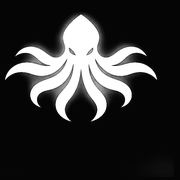
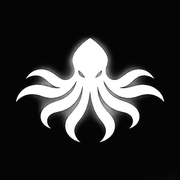
Centra el ícono de la app por centro de masa (v7)
El v6 quedaba pegado arriba en el launcher: el centroide real del mark
(patas del kraken casi transparentes) está al 34% de la altura, así que
centrar por bounding box lo dejaba alto. v7 ubica el mark de modo que su
centroide ponderado por alpha caiga en el centro del ícono. any al 94%,
maskable al 82% (dentro de la zona segura).

Changed region(s): [[0.0278, 0.0556, 0.9167, 0.8056]]

diff --git a/src/app/manifest.ts b/src/app/manifest.ts
@@ -10,10 +10,10 @@ export default function manifest(): MetadataRoute.Manifest {
     background_color: "#050505",
     theme_color: "#050505",
     icons: [
-      { src: "/icons/icon-192-v6.png", sizes: "192x192", type: "image/png", purpose: "any" },
-      { src: "/icons/icon-512-v6.png", sizes: "512x512", type: "image/png", purpose: "any" },
-      { src: "/icons/maskable-192-v6.png", sizes: "192x192", type: "image/png", purpose: "maskable" },
-      { src: "/icons/maskable-512-v6.png", sizes: "512x512", type: "image/png", purpose: "maskable" },
+      { src: "/icons/icon-192-v7.png", sizes: "192x192", type: "image/png", purpose: "any" },
+      { src: "/icons/icon-512-v7.png", sizes: "512x512", type: "image/png", purpose: "any" },
+      { src: "/icons/maskable-192-v7.png", sizes: "192x192", type: "image/png", purpose: "maskable" },
+      { src: "/icons/maskable-512-v7.png", sizes: "512x512", type: "image/png", purpose: "maskable" },
     ],
   };
 }
